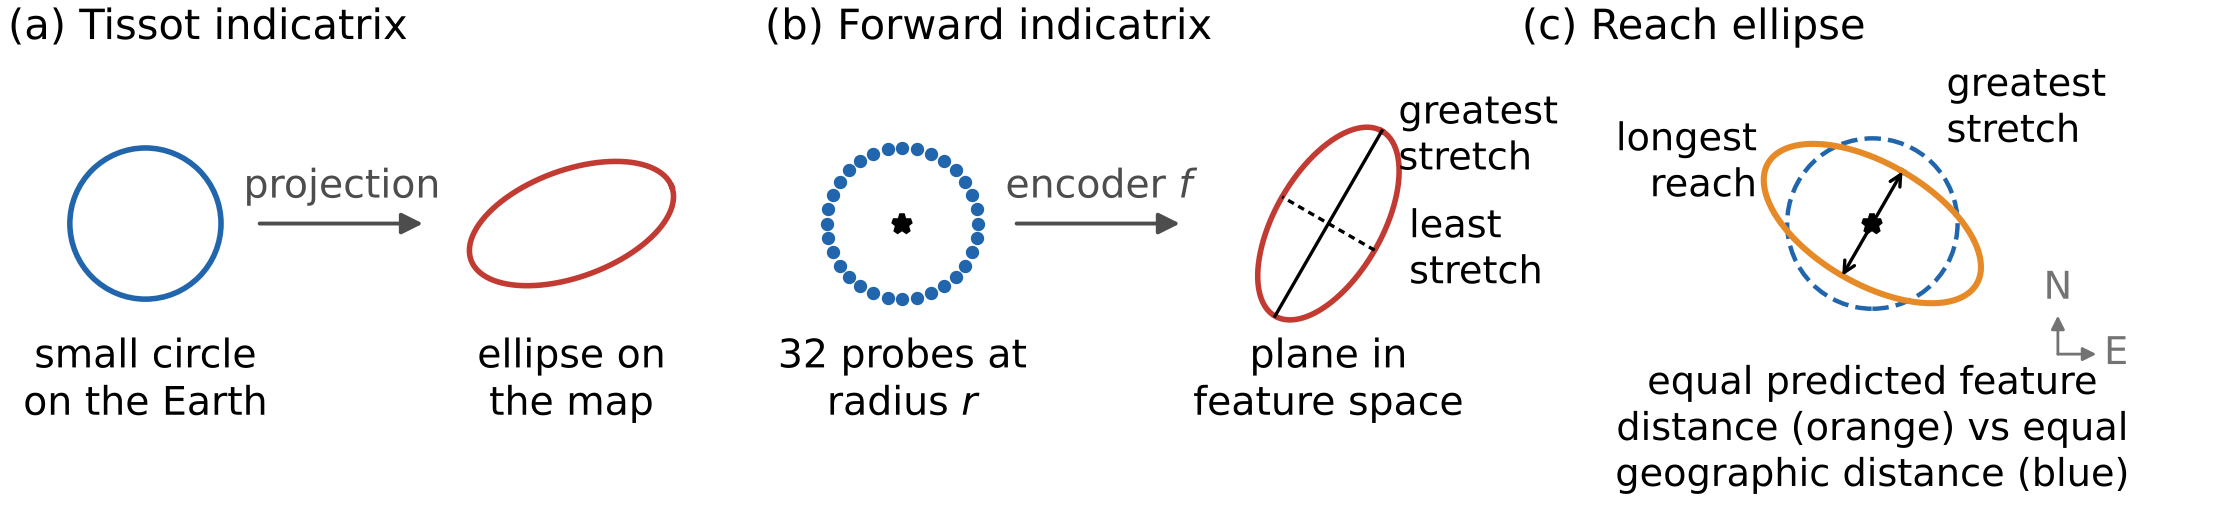
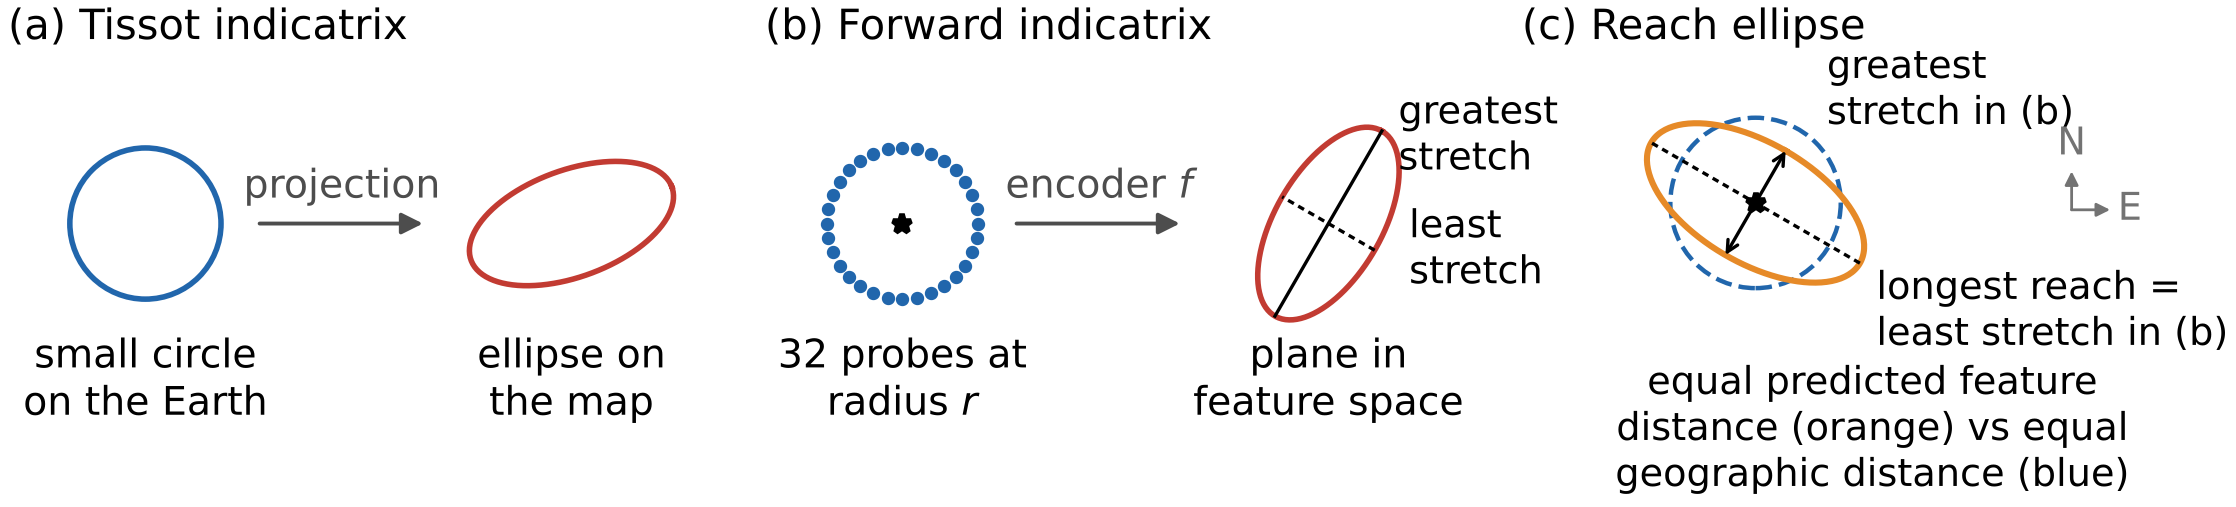
Schematic: label the reach-ellipse axes by the forward-indicatrix stretches

diff --git a/src/etissot/reporting/manuscript_figures.py b/src/etissot/reporting/manuscript_figures.py
@@ -236,16 +236,18 @@ def schematic():
     # (c) reach ellipse on the ground
     ax = axs[2]
     R0 = 0.62
-    reach = np.outer(R0 / np.sqrt(A) * np.cos(t), u) + np.outer(R0 * np.sqrt(A) * np.sin(t), v)
-    ax.add_patch(Circle((0, 0), R0, fill=False, lw=0.8, ls='--', color='#2166ac'))
+    c0 = np.array([-0.85, 0.15])
+    reach = c0 + np.outer(R0 / np.sqrt(A) * np.cos(t), u) + np.outer(R0 * np.sqrt(A) * np.sin(t), v)
+    ax.add_patch(Circle(c0, R0, fill=False, lw=0.8, ls='--', color='#2166ac'))
     ax.plot(reach[:, 0], reach[:, 1], color='#e68a28', lw=1.1)
-    ax.plot(0, 0, 'k*', ms=3.5)
+    ax.plot(*c0, 'k*', ms=3.5)
     g = R0 / np.sqrt(A) * u
-    ax.annotate('', xy=g, xytext=-g, arrowprops=dict(arrowstyle='<->', lw=0.6, color='k', mutation_scale=5, shrinkA=0, shrinkB=0))
-    ax.text(*(g + np.array([0.32, 0.12])), 'greatest\nstretch', fontsize=6.9, ha='left', va='bottom')
+    ax.annotate('', xy=c0 + g, xytext=c0 - g, arrowprops=dict(arrowstyle='<->', lw=0.6, color='k', mutation_scale=5, shrinkA=0, shrinkB=0))
+    ax.text(*(c0 + g + np.array([0.3, 0.1])), 'greatest\nstretch in (b)', fontsize=6.9, ha='left', va='bottom')
     h = R0 * np.sqrt(A) * v
-    ax.text(*(h + np.array([-0.08, 0.0])), 'longest\nreach', fontsize=6.9, ha='right', va='center')
-    ne_cross(ax, np.array([1.35, -0.95]))
+    ax.plot(*np.c_[c0 - h, c0 + h], color='k', lw=0.6, ls=(0, (2, 1.5)))
+    ax.text(*(c0 - h + np.array([0.12, -0.02])), 'longest reach =\nleast stretch in (b)', fontsize=6.9, ha='left', va='top')
+    ne_cross(ax, np.array([1.45, 0.1]))
     ax.text(0, -1.0, 'equal predicted feature\ndistance (orange) vs equal\ngeographic distance (blue)',
             ha='center', va='top', fontsize=6.9)
     ax.set_title('(c) Reach ellipse', loc='left', fontsize=7.5)
